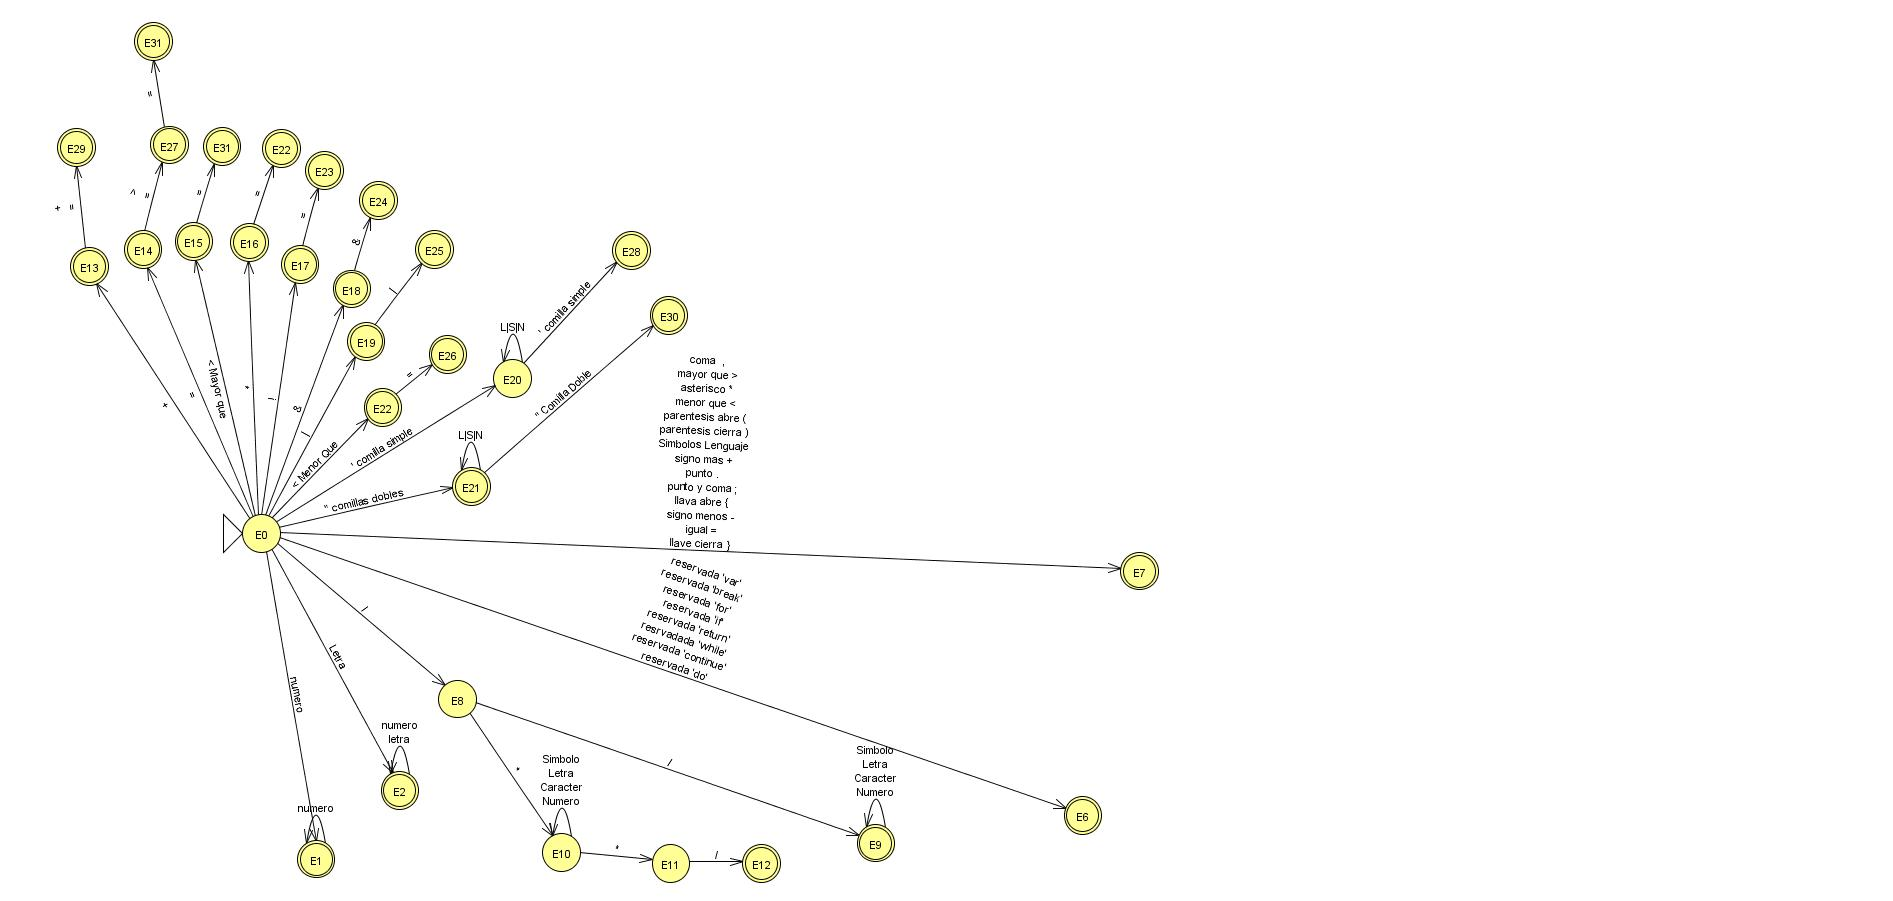
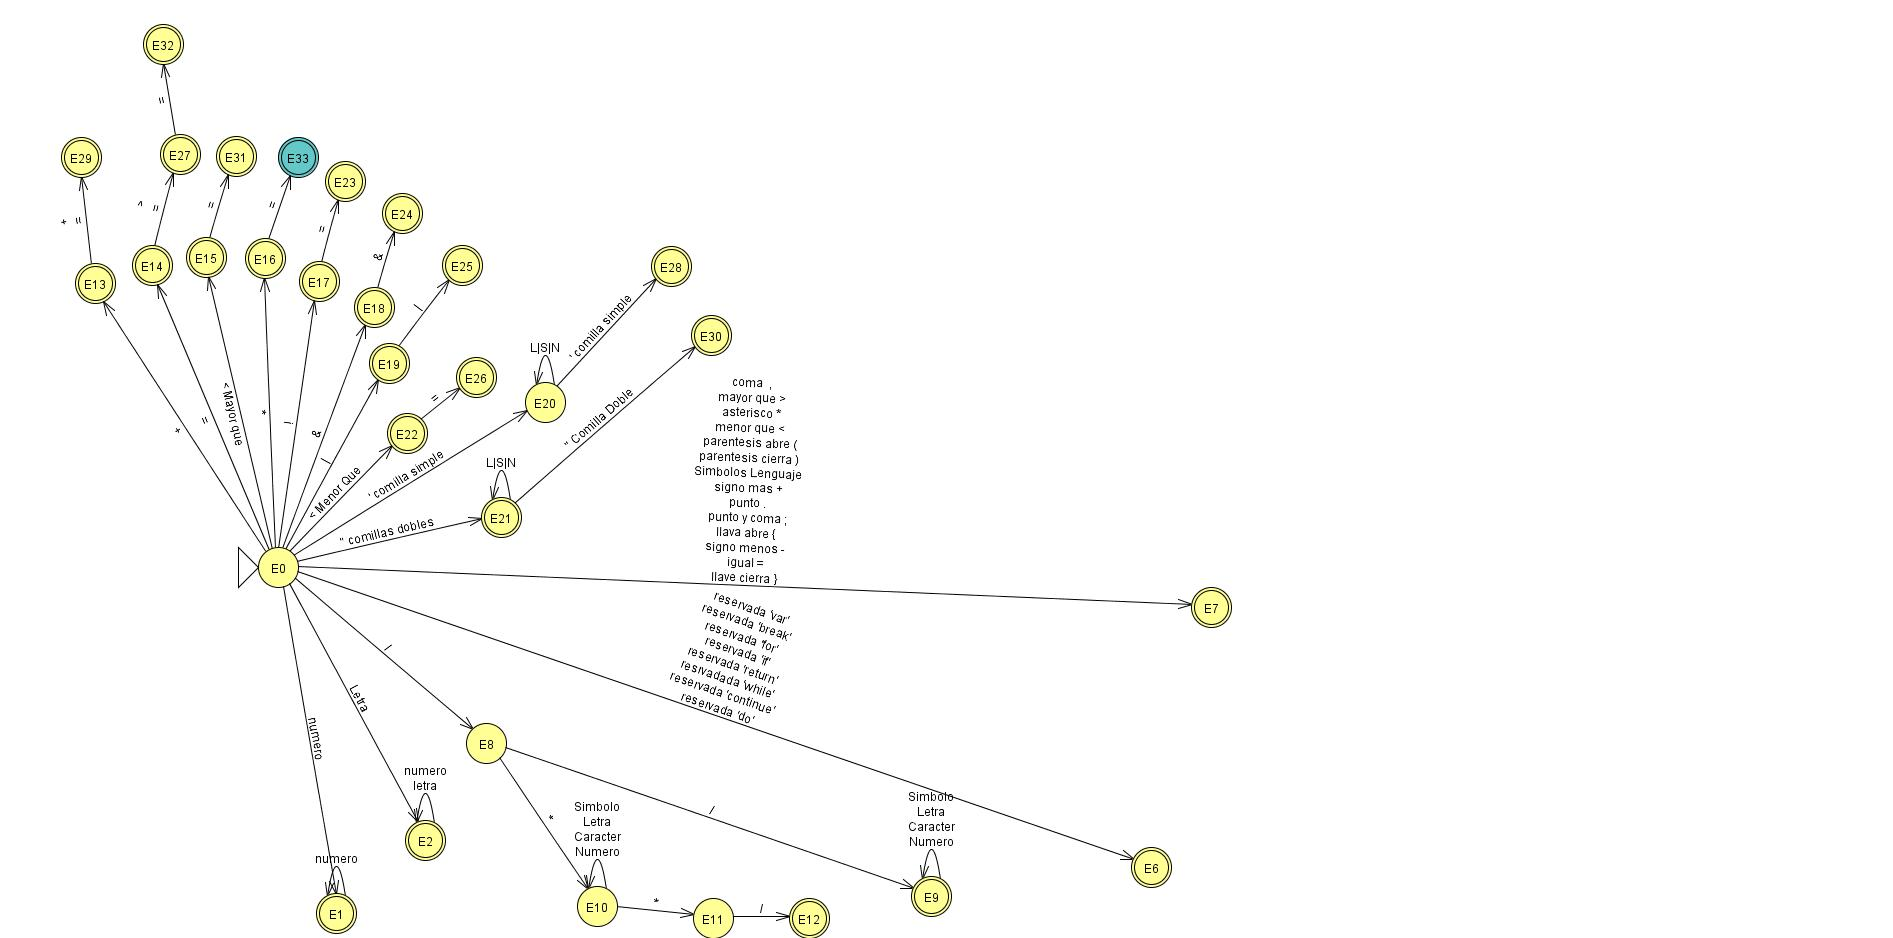
Reportes JS

diff --git a/P1/AnalizadorLexicoJS.py b/P1/AnalizadorLexicoJS.py
@@ -1,3 +1,5 @@
+from graphviz import Digraph
+
 from Token import TipoToken
 from Token import Token
 from ErrorLexico import ErrorLexico
@@ -17,6 +19,13 @@ class AnalizadorLexicoJS:
         self.contadorV = 1
         self.contadorH = 1
         self.posicion = 0
+        self.dotAFD1 = Digraph(comment="Grafica1", format='jpg')
+        self.dotAFD2 = Digraph(comment="Grafica2", format='jpg')
+        self.dotAFD3 = Digraph(comment="Grafica3", format='jpg')
+        self.boolGrafo1 = False
+        self.boolGrafo2 = False
+        self.boolReservada = False
+        self.boolGrafo3 = False
 
     def agregarToken(self, tipoToken, lexemaValor):
         self.lista_Tokens.append(Token(tipoToken, lexemaValor))
@@ -47,6 +56,8 @@ class AnalizadorLexicoJS:
                 caracterActual = self.entradaTexto[self.posicion]
 
             # E0 -> E Simbolos "Especiales"
+            # E0-> E13 , E14, E15, E16, E17, E18, E19, E22
+            # E22, E23, E24, E25, E26, E27, E29, E31, E32
             elif caracterActual == "+":
                 self.estadoE13()
             elif caracterActual == "=":
@@ -68,19 +79,22 @@ class AnalizadorLexicoJS:
             elif caracterActual.isnumeric():  # NUMERO ENTERO
                 self.estadoE1()
 
-            # E0 -> E6
+            # E0 -> E6, E2,
             elif caracterActual.isalpha():  # ID | RESERVADAS
                 finalActual = self.obtenerLongitud() + self.posicion
                 self.estadoE6()
                 self.posicion = finalActual  # poner fuera del metodo
+                if not self.boolGrafo2:
+                    self.boolGrafo2 = True
+                    self.dotAFD2.render(filename="AFD 2")
 
-            # E0 -> E8
+            # E0 -> E8, E10, E11, E12, E9
             elif caracterActual == "/":  # comentario , /
                 self.estadoE8()
-            # E0 -> E cadenas
+            # E0 -> E20, E28 cadenas
             elif caracterActual == "'":
                 self.estadoE20()
-            # E0 -> E cadenas
+            # E0 -> E21, EE30 cadenas
             elif caracterActual == "\"":
                 self.estadoE21()
             # E0 -> E0
@@ -135,12 +149,22 @@ class AnalizadorLexicoJS:
     # ----------------------     PALABRAS RESERVADAS   ----------------------
     # E0 -> E6 ("/")
     def estadoE6(self):  # letra | ID | RESERVADAS
+        if not self.boolGrafo2:
+            self.dotAFD2.attr(rankdir='LR')
+            self.dotAFD2.node("0", label="E0", shape="circle")
+            self.dotAFD2.node("2", label="E2", shape="doublecircle")
+
         final = self.obtenerLongitud() + self.posicion
         for i in range(self.posicion, final):
             self.lexemaTemp += self.entradaTexto[i]
 
         # E0 -> E6
         if self.evaluarReservadas():
+            if not self.boolGrafo2:
+                self.dotAFD2.edge("0", "2", self.entradaTexto[self.posicion])
+                for i in range(self.posicion, final):
+                    if (self.posicion + 1) != final:
+                        self.dotAFD2.edge("2", "2", self.entradaTexto[i + 1], dir="forward")
             self.contadorH += self.obtenerLongitud()
             return
 
@@ -150,9 +174,12 @@ class AnalizadorLexicoJS:
     # E2 -> E2
     def estadoE2(self, final):
         self.lexemaTemp = ""  # 40,41,42,43,44,45,46,  47       ,48,49,50
+
+        if not self.boolGrafo2:
+            self.dotAFD2.edge("0", "2", self.entradaTexto[self.posicion])
+
         while self.posicion < final:  # id4@3id  0 - 6
             caracter = self.entradaTexto[self.posicion]
-
             if caracter.isalpha():
                 self.lexemaTemp += caracter
             elif caracter.isnumeric():
@@ -166,6 +193,15 @@ class AnalizadorLexicoJS:
             if (self.posicion + 1) == final:
                 if not self.evaluarReservadas():
                     self.agregarToken(TipoToken.ID, self.lexemaTemp)
+
+            if not self.boolGrafo2:
+                if self.entradaTexto[self.posicion + 1].isalpha() and (self.posicion + 1) != final:
+                    self.dotAFD2.edge("2", "2", self.entradaTexto[self.posicion + 1])
+                elif self.entradaTexto[self.posicion + 1].isnumeric() and (self.posicion + 1) != final:
+                    self.dotAFD2.edge("2", "2", self.entradaTexto[self.posicion + 1])
+                elif self.entradaTexto[self.posicion + 1] == "_" and (self.posicion + 1) != final:
+                    self.dotAFD2.edge("2", "2", self.entradaTexto[self.posicion + 1])
+
             self.posicion += 1
             self.contadorH += 1
 
@@ -179,6 +215,11 @@ class AnalizadorLexicoJS:
             # Para el path del comentario
             if self.contadorComentario != 3:
                 self.contadorComentario += 1
+
+            # if self.boolGrafo3:
+            #     self.dotAFD3.node("9", label="E9", shape="circle")
+            #     self.dotAFD3.edge("8", "9", f"{caracter}")
+
             self.lexemaTemp += caracter
             self.posicion += 1
             self.contadorH += 1
@@ -186,6 +227,15 @@ class AnalizadorLexicoJS:
             self.estadoE9()
             return
         elif caracter == "*":
+            if not self.boolGrafo3:
+                self.dotAFD3.attr(rankdir="LR")
+                self.dotAFD3.node("0", label="E0", shape="circle")
+                self.dotAFD3.node("8", label="E8", shape="circle")
+                self.dotAFD3.edge("0", "8", f"{self.entradaTexto[self.posicion-1]}")
+
+                self.dotAFD3.node("10", label="E10", shape="circle")
+                self.dotAFD3.edge("8", "10", f"{caracter}")
+
             self.lexemaTemp += caracter
             self.posicion += 1
             self.contadorH += 1
@@ -207,6 +257,8 @@ class AnalizadorLexicoJS:
                 self.agregarToken(TipoToken.COMENTARIO_UNILINEA, self.lexemaTemp)
                 return
             else:
+                # if self.boolGrafo3:
+                #     self.dotAFD3.edge("9", "9", f"{caracter}")
                 self.lexemaTemp += caracter
             # Recuperar Path de Salida
             if caracter == "C" and self.contadorComentario == 2:
@@ -225,16 +277,30 @@ class AnalizadorLexicoJS:
             caracter = self.entradaTexto[self.posicion]
             if caracter == "*":
                 # E11
+                if not self.boolGrafo3:
+                    self.dotAFD3.node("11", label="E11", shape="circle")
+                    self.dotAFD3.edge("10", "11", f"{caracter}")
+
                 self.lexemaTemp += caracter
                 if self.entradaTexto[self.posicion + 1] == "/":
                     # E11-> E12
+                    if not self.boolGrafo3:
+                        self.dotAFD3.node("12", label="E12", shape="doublecircle")
+                        self.dotAFD3.edge("11", "12", f"{self.entradaTexto[self.posicion + 1]}")
+
                     self.lexemaTemp += self.entradaTexto[self.posicion + 1]
                     self.posicion += 2
                     self.contadorH += 2
                     self.agregarToken(TipoToken.COMENTARIO_MULTILINEA, self.lexemaTemp)
+                    if not self.boolGrafo3:
+                        self.boolGrafo3 = True
+                        self.dotAFD3.render(filename="AFD 3")
                     return
                 # E11 -> E10
             else:
+                if not self.boolGrafo3:
+                    self.dotAFD3.edge("10", "10", f"{caracter}")
+
                 self.lexemaTemp += caracter
                 if caracter == "\n":
                     self.contadorV += 1
@@ -387,6 +453,11 @@ class AnalizadorLexicoJS:
 
     # E0 -> E21 (")
     def estadoE21(self):
+        if not self.boolGrafo1:
+            self.dotAFD1.attr(rankdir='LR')
+            self.dotAFD1.node(f"0", label="E0", shape="circle")
+            self.dotAFD1.node(f"21", label="E21", shape="circle", width="1")
+            self.dotAFD1.edge("0", "21", "\" Comillas")
         self.lexemaTemp += self.entradaTexto[self.posicion]
         self.posicion += 1
         self.contadorH += 1
@@ -396,12 +467,23 @@ class AnalizadorLexicoJS:
             self.lexemaTemp += caracter
             if caracter == "\"":
                 # E21 -> E30
+                if not self.boolGrafo1:
+                    self.boolGrafo1 = True
+                    self.dotAFD1.node("30", label='E30', shape="doublecircle")
+                    self.dotAFD1.edge("21", "30", "\" Comillas")
+                    self.dotAFD1.render(filename="AFD 1")
                 self.agregarToken(TipoToken.CADENA_DOBLES, self.lexemaTemp)
                 self.posicion += 1
                 self.contadorH += 1
                 return
+            self.dotAFD1.edge("21", "21", f"{caracter}", dir='forward')
             self.contadorH += 1
             self.posicion += 1
+        if not self.boolGrafo1:
+            self.boolGrafo1 = True
+            self.dotAFD1.node("30", label='E30', shape="doublecircle")
+            self.dotAFD1.edge("21", "30", "Fin")
+            self.dotAFD1.render(filename="AFD 1")
         self.agregarToken(TipoToken.CADENA_DOBLES, self.lexemaTemp)
 
     def estadoE22(self):
@@ -454,33 +536,63 @@ class AnalizadorLexicoJS:
     def evaluarReservadas(self):
         if self.lexemaTemp.lower() == "return":
             self.agregarToken(TipoToken.RESERVADA_RETURN, "return")
+            if self.boolGrafo2:
+                self.dotAFD2.node("6", label="E6", shape="doublecircle")
+                self.dotAFD2.edge("0", "6", "return")
             return True
         elif self.lexemaTemp.lower() == "break":
             self.agregarToken(TipoToken.RESERVADA_BREAK, "break")
+            if self.boolGrafo2:
+                self.dotAFD2.node("6", label="E6", shape="doublecircle")
+                self.dotAFD2.edge("0", "6", "break")
             return True
         elif self.lexemaTemp.lower() == "continue":
             self.agregarToken(TipoToken.RESERVADA_CONTINUE, "continue")
+            if self.boolGrafo2:
+                self.dotAFD2.node("6", label="E6", shape="doublecircle")
+                self.dotAFD2.edge("0", "6", "continue")
             return True
         elif self.lexemaTemp.lower() == "do":
             self.agregarToken(TipoToken.RESERVADA_DO, "do")
+            if self.boolGrafo2:
+                self.dotAFD2.node("6", label="E6", shape="doublecircle")
+                self.dotAFD2.edge("0", "6", "do")
             return True
         elif self.lexemaTemp.lower() == "while":
             self.agregarToken(TipoToken.RESERVADA_WHILE, "while")
+            if self.boolGrafo2:
+                self.dotAFD2.node("6", label="E6", shape="doublecircle")
+                self.dotAFD2.edge("0", "6", "while")
             return True
         elif self.lexemaTemp.lower() == "for":
             self.agregarToken(TipoToken.RESERVADA_FOR, "for")
+            if self.boolGrafo2:
+                self.dotAFD2.node("6", label="E6", shape="doublecircle")
+                self.dotAFD2.edge("0", "6", "for")
             return True
         elif self.lexemaTemp.lower() == "if":
             self.agregarToken(TipoToken.RESERVADA_IF, "if")
+            if self.boolGrafo2:
+                self.dotAFD2.node("6", label="E6", shape="doublecircle")
+                self.dotAFD2.edge("0", "6", "if")
             return True
         elif self.lexemaTemp.lower() == "var":
             self.agregarToken(TipoToken.RESERVADA_VAR, "var")
+            if self.boolGrafo2:
+                self.dotAFD2.node("6", label="E6", shape="doublecircle")
+                self.dotAFD2.edge("0", "6", "var")
             return True
         elif self.lexemaTemp.lower() == "math":
             self.agregarToken(TipoToken.RESERVADA_VAR, "Math")
+            if self.boolGrafo2:
+                self.dotAFD2.node("6", label="E6", shape="doublecircle")
+                self.dotAFD2.edge("0", "6", "Math")
             return True
         elif self.lexemaTemp.lower() == "pow":
             self.agregarToken(TipoToken.RESERVADA_VAR, "pow")
+            if self.boolGrafo2:
+                self.dotAFD2.node("6", label="E6", shape="doublecircle")
+                self.dotAFD2.edge("0", "6", "pow")
             return True
         return False
 

diff --git a/P1/main.py b/P1/main.py
@@ -1,14 +1,32 @@
+from graphviz import Digraph
+
 from PantallaPrincipal import PantallaPrincipal
 import os
 
-
-def crearArchivo():
-    # os.linesep para separar una linea de otra
-    file = open("C:/Users/Isaac/Desktop/nombrexd.txt", "w")
-    file.write("Primera línea\n")
-    file.write("Segunda línea")
-    file.close()
-
-
-# crearArchivo()
 iniciar = PantallaPrincipal()
+
+# Para el grafo de JS se tomo en cuenta lo siguiente
+# Grafo 1 = Primera Cadena
+# Grafo 2 = Primer ID
+# Grafo 3 = Primer Comentario MULTILINEA
+
+
+# Ejemplo pagina
+# dot = Digraph(comment='The Round Table', format='jpg')
+# dot.node('A', 'King Arthur')
+# dot.node('B', 'Sir Bedevere')
+# dot.node('L', 'Sir Lancelot')
+#
+# dot.edges(['AB', 'AL'])
+# dot.edge('B', 'L', constraint='false')
+# dot.render(filename="dot")
+
+# Realizado
+# dotArbol = Digraph(comment=f"nombre1Arbol", format='jpg')
+# dotArbol.attr(rankdir='LR')
+# dotArbol.node(f"1", label=f"jsjs", shape="circle")
+# dotArbol.node(f"2", label=f"juju", shape="doublecircle", width="2")
+# dotArbol.edge(f"1", "1", "enlace", dir="forward",)
+# dotArbol.edge(f"1", "1", "Hola", dir="forward")
+# dotArbol.edge(f"1", "2", "j")
+# dotArbol.render(filename=f"nombreArbolxd")
